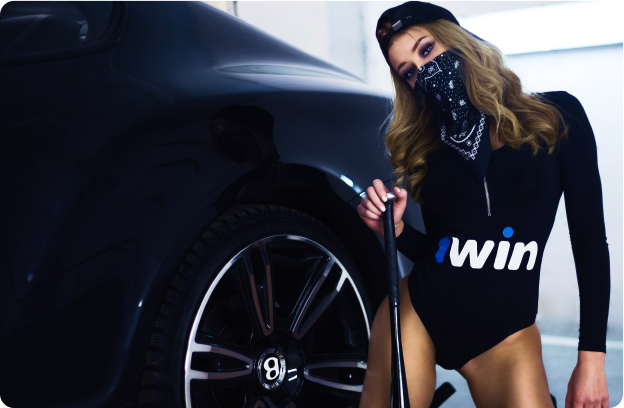
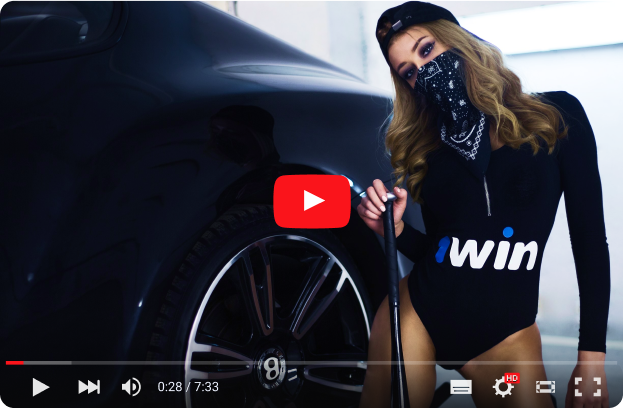
Desktop

Changed region(s): [[0.0, 0.8235, 1.0, 1.0], [0.4263, 0.4118, 0.5785, 0.5588]]

diff --git a/index.html b/index.html
@@ -312,9 +312,9 @@
                 <p class="title">О нас говорят</p>
                 <p>Еще 2 года назад о букмекерской конторе, не слышал никто, да и называлась она иначе. Но за это время букмекер добился небывалых высот, завоевав нелегальный рынок своими уникальными предложениями. На сегодняшний день всем букмекерам, работающим на территории СНГ есть чему поучиться. Потрясающая работа с клиентами, великолепный дизайн продуманный до мелочей, выоские коэффициенты, щедрый приветсвенный бонус 1win и быстрое мобильное приложение - вот основыные преимущества, выделяющие данную букмекерускую контору. А что еще нужно заядлым ставочникам?</p>
               </div>
-              <div class="about__video">
-                <iframe src="https://www.youtube.com/watch?v=8Y1mKA8hu4M&feature=emb_logo" frameborder="0"></iframe>
-              </div>
+              <a data-fancybox href="https://www.youtube.com/embed/8Y1mKA8hu4M" class="about__video">
+                <img src="img/images/video.png" alt="video">
+              </a>
           </div>
         </div>
       </div>
@@ -365,6 +365,19 @@
                     </div>
                   </div>
                   <div class="comments__bottom">Я действительно не понимаю, в чем можно упрекнуть букмекера. Я пользуюсь данной конторой почти два года, и у меня не было никаких проблем с 1вин... вывод средств происходит очень быстро, независимо от того, насколько велика или небольшая сумма.</div>
+                </div>
+                <div class="swiper-slide comments__slide">
+                  <div class="comments__top">
+                    <figure class="comments__avatar">
+                      <img src="img/images/ava-1.png" alt="Бушкевич Виктор">
+                    </figure>
+                    <div class="comments__person">
+                      <p class="comments__name">Бушкевич Виктор</p>
+                      <time datetime="2020-09-17" class="comments__data">17 сентября 2020</time>
+                      <span class="comments__time">13:24</span>
+                    </div>
+                  </div>
+                  <div class="comments__bottom">Я являюсь частым клиентом 1win. За все время работы с конторой не сталкивался с какими-либо проблемами. Вывод средств происходит быстро, как и депозит. Конкретный пример: 17 сентября я внес на счет 9500 рублей из своего интернет-банка, и эта сумма была сразу же зачислена на мой игровой счет. Я поставил несколько раз на футбол и теннис, после которых в сумме имел 20560 рублей. В тот же вечер я поставил сумму на вывод и уже через час, выигранные деньги были на моем балансе.</div>
                 </div>
               </div>
             </div>

diff --git a/less/blocks/comments.less b/less/blocks/comments.less
@@ -1,0 +1,124 @@
+.comments__wrap {
+  position: relative;
+  padding: 30px;
+  padding-left: 26px;
+}
+
+.comments__slide {
+  box-sizing: border-box;
+  height: auto;
+  padding: 30px;
+  border-radius: 12px;
+  background-color: rgba(255,255,255,0.1);
+  border: 1px solid rgba(255,255,255,0.1);
+}
+
+.comments__top {
+  position: relative;
+  padding-bottom: 26px;
+  
+  &::after {
+    content: "";
+    position: absolute;
+    bottom: 0;
+    left: -30px;
+    right: -30px;
+    height: 1px;
+    background: linear-gradient(90deg, #1C273D 0%, #12192B 100%);
+    opacity: 0.3;
+    border-radius: 12px;
+  }
+}
+
+.comments__avatar {
+  position: absolute;
+  z-index: 5;
+  top: -5px;
+  left: -8px;
+  width: 68px;
+  height: 68px;
+  display: flex;
+  justify-content: center;
+  align-items: center;
+  border-radius: 50%;
+  background-color: @blue;
+  background-image: linear-gradient(90deg, #0195FF 0%, #0856C5 100%);
+  overflow: hidden;
+  
+  &::before {
+    content: "";
+    position: absolute;
+    top: 0;
+    bottom: 0;
+    left: 0;
+    right: 0;
+    
+  }
+  
+  img {
+    display: block;
+    width: 60px;
+    height: auto;
+    flex: 0 0 auto;
+  }
+}
+
+.comments__person {
+  position: relative;
+  width: 100%;
+  padding: 7px 10px;
+  padding-left: 73px;
+  border-radius: 12px;
+  background-color: rgba(9,15,30,0.4);
+}
+
+.comments__bottom {
+  padding-top: 21px;
+  color: rgba(255,255,255,0.8);
+}
+
+.comments__name {
+  margin: 0;
+  font-weight: 600;
+  font-size: 16px;
+}
+
+.comments__data {
+  display: block;
+  font-size: 12px;
+  color: rgba(255,255,255,0.5);
+}
+
+.comments__time {
+  position: absolute;
+  right: 10px;
+  bottom: 10px;
+  font-size: 12px;
+  color: @blue;
+}
+
+.swiper-button-prev,
+.swiper-button-next {
+  width: 38px;
+  height: 38px;
+  border-radius: 12px;
+  background-image: url(../img/icons/next.svg);
+  background-repeat: no-repeat;
+  background-size: contain;
+  outline: none;
+}
+
+.swiper-button-prev {
+  transform: rotate(180deg);
+}
+
+.comments__prev {
+  left: auto;
+  top: -35px;
+  right: 83px;
+}
+
+.comments__next {
+  right: 30px;
+  top: -35px;
+}

diff --git a/less/blocks/social.less b/less/blocks/social.less
@@ -1,0 +1,47 @@
+.social {
+  .reset();
+  list-style: none;
+  display: flex;
+  align-items: center;
+}
+
+.social__item {
+  margin-left: 15px;
+}
+
+.social__link {
+  display: block;
+  width: 34px;
+  height: 34px;
+  background-repeat: no-repeat;
+  background-size: contain;
+  .transition();
+  
+  &--vk {
+    background-image: url(../img/icons/vk.svg);
+  }
+  &--wa {
+    background-image: url(../img/icons/watsapp.svg);
+  }
+  &--sk {
+    background-image: url(../img/icons/skype.svg);
+  }
+  &--in {
+    background-image: url(../img/icons/instagram.svg);
+  }
+  &--fb {
+    background-image: url(../img/icons/facebook.svg);
+  }
+  &--ok {
+    background-image: url(../img/icons/ok.svg);
+  }
+  &--tg {
+    background-image: url(../img/icons/telegram.svg);
+  }
+  
+  &:hover,
+  &:active {
+    opacity: 0.7;
+    .transition();
+  }
+}

diff --git a/less/blocks/footer.less b/less/blocks/footer.less
@@ -1,0 +1,25 @@
+.footer {
+  padding-bottom: 30px;
+}
+
+.footer__block {
+  background: linear-gradient(90deg, #1C273D 0%, #12192B 100%);
+  border-radius: 12px;
+}
+
+.footer__top {
+  display: flex;
+  justify-content: space-between;
+  align-items: center;
+  padding: 8px 12px;
+  background: rgba(255, 255, 255, 0.05);
+  border-radius: 12px;
+}
+
+.footer__bottom {
+  padding: 16px 20px;
+  font-weight: 500;
+  font-size: 12px;
+  line-height: 1.5;
+  color: rgba(255,255,255,0.3);
+}

diff --git a/less/blocks/about.less b/less/blocks/about.less
@@ -1,0 +1,25 @@
+.about__wrap {
+  display: flex;
+  justify-content: space-between;
+  align-items: center;
+}
+
+.about__text {
+  width: ~"calc(100% - 700px)";
+  color: rgba(255,255,255,0.7);
+  
+  .title {
+    color: #fff;
+  }
+}
+
+.about__video {
+  display: block;
+  width: 623px;
+  
+  img {
+    display: block;
+    width: 100%;
+    height: auto;
+  }
+}

diff --git a/less/style.less b/less/style.less
@@ -14,3 +14,8 @@
 @import "blocks/info";
 @import "blocks/benefits";
 @import "blocks/load";
+@import "blocks/about";
+@import "blocks/comments";
+@import "blocks/faq";
+@import "blocks/footer";
+@import "blocks/social";

diff --git a/less/blocks/faq.less b/less/blocks/faq.less
@@ -1,0 +1,12 @@
+.faq__list {
+  .reset();
+  list-style: none;
+  
+  li {
+    margin-bottom: 40px;
+  }
+}
+
+.faq__btn {
+  margin-top: 67px;
+}

diff --git a/less/blocks/load.less b/less/blocks/load.less
@@ -1,6 +1,5 @@
-.load {
-  margin-bottom: 30px;
-  
+.load,
+.comments {  
   .block {
     padding: 0;
   }
